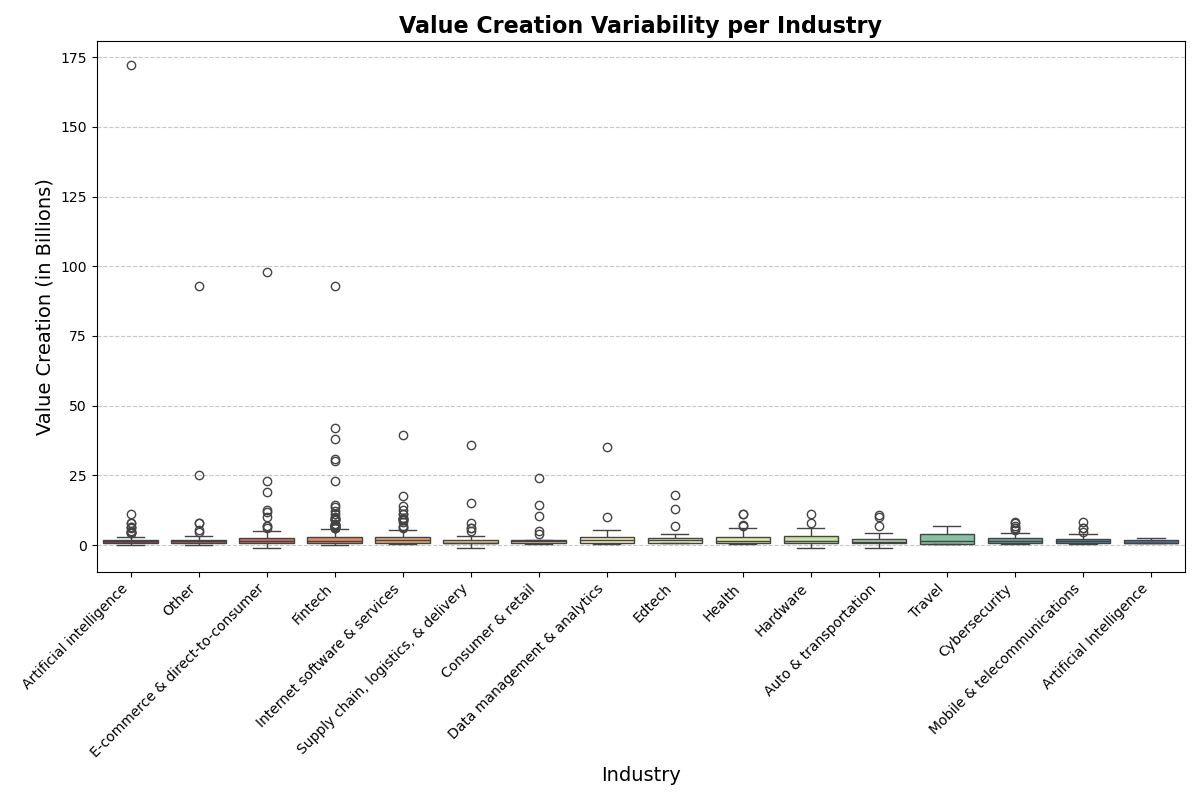
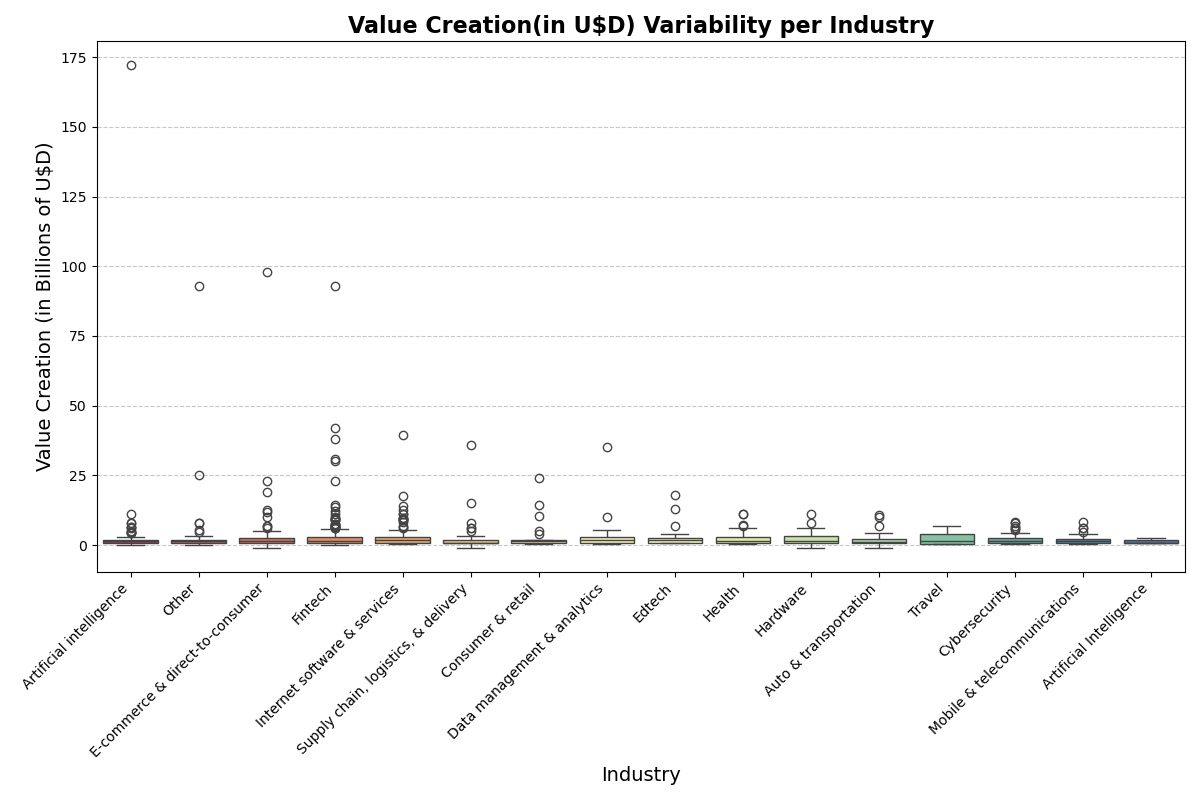
boxplot adjustment

Changed region(s): [[0.2775, 0.0, 0.7708, 0.0625], [0.0308, 0.1875, 0.0617, 0.5938]]

diff --git a/main.py b/main.py
@@ -94,9 +94,13 @@ def plot_value_creation_by_industry(df_edited, save_dir):
     )
 
     # Set title and labels
-    plt.title("Value Creation Variability per Industry", fontsize=16, fontweight="bold")
+    plt.title(
+        "Value Creation(in U$D) Variability per Industry",
+        fontsize=16,
+        fontweight="bold",
+    )
     plt.xlabel("Industry", fontsize=14)
-    plt.ylabel("Value Creation (in Billions)", fontsize=14)
+    plt.ylabel("Value Creation (in Billions of U$D)", fontsize=14)
 
     # Rotate the x-axis labels for better readability
     plt.xticks(rotation=45, ha="right")
@@ -113,6 +117,7 @@ def plot_value_creation_by_industry(df_edited, save_dir):
 
     plot_path = os.path.join(save_dir, "value_creation_boxplot.png")
     plt.savefig(plot_path)
+    plt.ylim(0, 30)
     plt.show()
 
     print(f"Plot saved to: {plot_path}")
